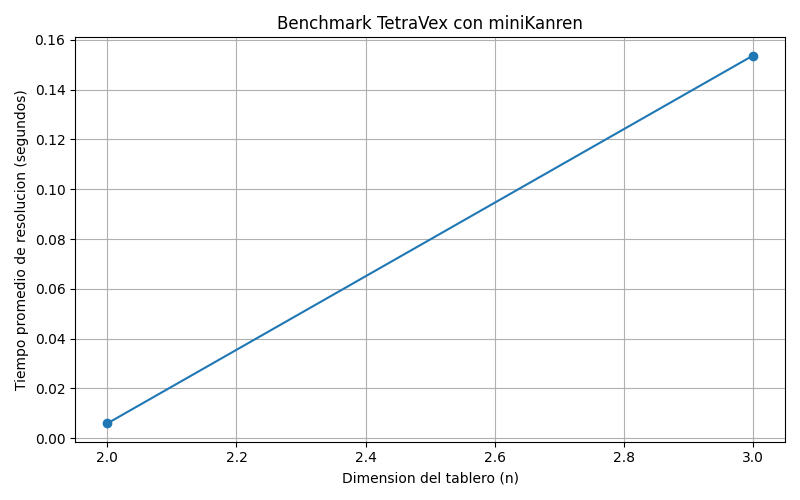
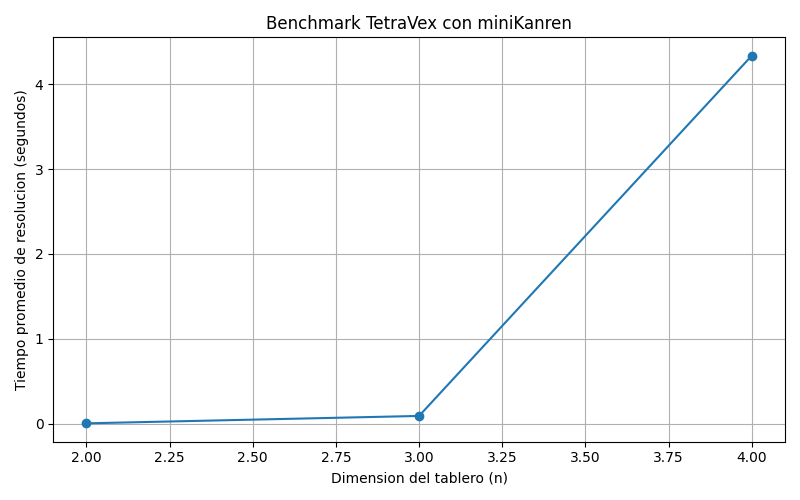
agregando restricciones -> dominio -> diferencias

diff --git a/tetravex.py b/tetravex.py
@@ -117,12 +117,9 @@ def meta_tetravex(
 ):
     metas: list[object] = []
 
+    # 1) Restricciones de adyacencia
     for posicion, celda in enumerate(celdas_tablero):
         fila, columna = divmod(posicion, n)
-        metas.append(membero(celda, piezas_indexadas))
-
-        for previa in celdas_tablero[:posicion]:
-            metas.append(neq(celda, previa))
 
         if columna > 0:
             izquierda = celdas_tablero[posicion - 1]
@@ -131,6 +128,16 @@ def meta_tetravex(
         if fila > 0:
             superior = celdas_tablero[posicion - n]
             metas.append(coinciden_vertical(superior, celda))
+
+    # 2) Dominios
+    for celda in celdas_tablero:
+        metas.append(membero(celda, piezas_indexadas))
+
+    # 3) Diferentes
+    total_celdas = len(celdas_tablero)
+    for i in range(total_celdas):
+        for j in range(i + 1, total_celdas):
+            metas.append(neq(celdas_tablero[i], celdas_tablero[j]))
 
     return lall(*metas)
 
